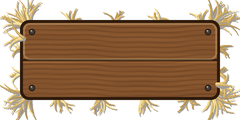
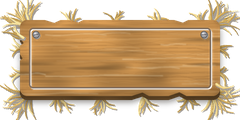
تختهی دکمهها شبیه عکس نمونه: چوب عسلی کهنه با قاب و پیچ
- رنگ چوب عسلی روشن شد، رگهها خطوط ظریف و موجدارن و رگههای
  روشنِ آفتابخورده و لکههای کشیده در امتداد رگه دارن
- لبههای تخته کمی لبپریدهست، ضخامت زیرش و سایه پیداست
- یه قاب برجسته داخل تخته و دو تا پیچ فلزی بالاش اضافه شد
- متن دکمهها قهوهای تیره شد، انگار روی چوب حک شده
- وسط تخته کشیده میشه، نه تکرار، که خط قاب تکهتکه نشه

diff --git a/tools/make_ui.py b/tools/make_ui.py
@@ -14,23 +14,63 @@ W, H = 240, 120
 INSET = 20  # straw sticks out this far past the plank
 
 
+def streaks(w, h, rows, blur_x, blur_y):
+    # noise stretched along x: long horizontal grain streaks
+    n = Image.fromarray((rng.random((rows, max(2, w // 40))) * 255).astype(np.uint8)).resize((w, h), Image.BICUBIC)
+    return np.asarray(n.filter(ImageFilter.BoxBlur(1)), np.float32) / 255
+
+
 def wood(w, h):
-    y, x = np.mgrid[0:h, 0:w].astype(np.float32)
-    warp = np.sin(x / w * 7 + rng.random() * 6) * 6 + np.sin(x / w * 23) * 2
-    grain = np.sin((y + warp) * 0.32) * 0.5 + 0.5
-    grain = grain ** 3
-    fine = rng.random((h, w)).astype(np.float32)
-    fine = np.asarray(Image.fromarray((fine * 255).astype(np.uint8)).resize((w, h)).filter(ImageFilter.GaussianBlur(1)), np.float32) / 255
-    streak = np.asarray(Image.fromarray((rng.random((h // 6 + 1, 4)) * 255).astype(np.uint8)).resize((w, h), Image.BICUBIC), np.float32) / 255
-    base = np.array([0.56, 0.36, 0.2])
-    dark = np.array([0.36, 0.21, 0.1])
-    t = (grain * 0.55 + fine * 0.2 + streak * 0.35)[..., None]
-    rgb = base * (1 - t * 0.6) + dark * t * 0.6
-    # two boards: seam across the middle
-    seam = np.abs(y - h * 0.5) < 1.2 * SS
-    rgb[seam] *= 0.45
-    rgb[(y > h * 0.5 + 1.2 * SS) & (y < h * 0.5 + 3 * SS)] *= 1.15
+    """Weathered honey-tan board: fine wavy grain lines, long sun-bleached streaks, faint grime."""
+    blot = np.asarray(Image.fromarray((rng.random((4, 8)) * 255).astype(np.uint8)).resize((w, h), Image.BICUBIC), np.float32) / 255
+    base = np.array([0.76, 0.55, 0.30])
+    rgb = base * (0.9 + 0.2 * blot[..., None])
+    # grain: many thin, slightly wavy lines running the length of the board
+    gl = Image.new("L", (w, h), 0)
+    gd = ImageDraw.Draw(gl)
+    y = -2.0 * SS
+    while y < h + 2 * SS:
+        y += rng.uniform(0.8, 2.6) * SS
+        ph, amp = rng.uniform(0, 6), rng.uniform(0.3, 2.0) * SS
+        pts = [(x, y + math.sin(x / w * rng.uniform(2, 5) + ph) * amp) for x in np.linspace(-10, w + 10, 24)]
+        gd.line(pts, fill=int(rng.uniform(25, 140)), width=max(1, int(rng.uniform(0.4, 1.1) * SS)))
+    grain = np.asarray(gl.filter(ImageFilter.GaussianBlur(0.35 * SS)), np.float32)[..., None] / 255
+    rgb = rgb * (1 - grain * 0.55) + np.array([0.42, 0.25, 0.1]) * grain * 0.55
+    # pale bleached streaks along the grain
+    sc = Image.new("L", (w, h), 0)
+    sd = ImageDraw.Draw(sc)
+    for _ in range(int(w * h / (500 * SS * SS))):
+        x0, y0 = rng.uniform(-40, w), rng.uniform(0, h)
+        ln = rng.uniform(25, 150) * SS
+        pts = [(x0 + ln * k / 8, y0 + math.sin(k * 0.8 + rng.random()) * SS * 0.8) for k in range(9)]
+        sd.line(pts, fill=int(rng.uniform(60, 210)), width=max(1, int(rng.uniform(0.4, 1.6) * SS)))
+    pale = np.asarray(sc.filter(ImageFilter.GaussianBlur(0.5 * SS)), np.float32)[..., None] / 255
+    rgb = rgb * (1 - pale * 0.75) + np.array([0.95, 0.86, 0.7]) * pale * 0.75
+    # faint dark grime patches
+    gr = np.asarray(Image.fromarray((rng.random((18, 5)) * 255).astype(np.uint8)).resize((w, h), Image.BICUBIC), np.float32) / 255
+    rgb *= (1 - np.clip(gr - 0.6, 0, 1) * 0.55)[..., None]  # stretched along x so grime follows the grain
     return np.clip(rgb, 0, 1)
+
+
+def chipped_mask(w, h, radius):
+    """Rounded board outline with a few splintered notches on the edges, like old boards."""
+    m = Image.new("L", (w, h), 0)
+    md = ImageDraw.Draw(m)
+    md.rounded_rectangle([0, 0, w - 1, h - 1], radius=radius, fill=255)
+    for _ in range(7):
+        side = rng.integers(4)
+        d = rng.uniform(2, 5) * SS
+        if side < 2:  # left/right ends get V-shaped splinters
+            x = 0 if side == 0 else w - 1
+            y = rng.uniform(0.15, 0.85) * h
+            s = 1 if side == 0 else -1
+            md.polygon([(x, y - d * 1.6), (x + s * d, y), (x, y + d * 0.8)], fill=0)
+        else:
+            y = 0 if side == 2 else h - 1
+            x = rng.uniform(0.1, 0.9) * w
+            s = 1 if side == 2 else -1
+            md.polygon([(x - d * 2.2, y), (x, y + s * d * 0.7), (x + d * 1.4, y)], fill=0)
+    return m
 
 
 def straw(d, cx, cy, ang, spread, n, length, front=False):
@@ -78,22 +118,41 @@ def button():
     for y in (h * 0.4, h * 0.6):
         straw(d, i + 4 * SS, y, 3.14, 0.6, 6, 18)
         straw(d, w - i - 4 * SS, y, 0.0, 0.6, 6, 18)
-    # plank with rounded corners, dark rim and a lit top edge
+    # weathered board: drop shadow, darker side for thickness, chipped face, raised inner frame, screws
     pw, ph = w - 2 * i, h - 2 * i
-    tex = (wood(pw, ph) * 255).astype(np.uint8)
-    plank = Image.fromarray(tex).convert("RGBA")
-    mask = Image.new("L", (pw, ph), 0)
-    ImageDraw.Draw(mask).rounded_rectangle([0, 0, pw - 1, ph - 1], radius=9 * SS, fill=255)
-    rim = Image.new("RGBA", (pw, ph), (0, 0, 0, 0))
-    rd = ImageDraw.Draw(rim)
-    rd.rounded_rectangle([0, 0, pw - 1, ph - 1], radius=9 * SS, outline=(45, 25, 10, 255), width=3 * SS)
-    rd.rounded_rectangle([3 * SS, 3 * SS, pw - 3 * SS, ph * 0.5], radius=7 * SS, outline=(255, 220, 160, 70), width=SS * 2)
-    plank = Image.alpha_composite(plank, rim)
-    pd = ImageDraw.Draw(plank)
-    for nx, ny in [(12, 12), (pw / SS - 12, 12), (12, ph / SS - 12), (pw / SS - 12, ph / SS - 12)]:  # nails
-        r = 3.2 * SS
-        pd.ellipse([nx * SS - r, ny * SS - r, nx * SS + r, ny * SS + r], fill=(70, 62, 55, 255), outline=(30, 25, 20, 255), width=SS)
-        pd.ellipse([nx * SS - r * 0.4, ny * SS - r * 0.6, nx * SS, ny * SS - r * 0.1], fill=(170, 160, 150, 255))
+    thick = 4 * SS
+    fh = ph - thick
+    mask = chipped_mask(pw, fh, 7 * SS)
+    shadow = Image.new("RGBA", (w, h), (0, 0, 0, 0))
+    shadow.paste((25, 15, 5, 120), (i, i + thick + 2 * SS), mask)
+    img.alpha_composite(shadow.filter(ImageFilter.GaussianBlur(3 * SS)))
+    side = Image.fromarray((wood(pw, fh) * 0.45 * 255).astype(np.uint8)).convert("RGBA")
+    img.paste(side, (i, i + thick), mask)
+
+    face = wood(pw, fh)
+    m = np.asarray(mask, np.float32) / 255
+    soft = np.asarray(mask.filter(ImageFilter.GaussianBlur(2.5 * SS)), np.float32) / 255
+    face *= (0.72 + 0.28 * soft)[..., None]  # edges a touch darker, worn
+    yy = np.arange(fh)[:, None] / fh
+    face *= (1.06 - 0.12 * yy)[..., None]  # light from above
+    plank = Image.fromarray((np.clip(face, 0, 1) * 255).astype(np.uint8)).convert("RGBA")
+    pd = ImageDraw.Draw(plank, "RGBA")
+    fi = 9 * SS  # inner frame inset
+    box = [fi, fi * 0.85, pw - fi, fh - fi * 0.85]
+    pd.rounded_rectangle([box[0] + SS, box[1] + SS, box[2] + SS, box[3] + SS], radius=4 * SS, outline=(255, 235, 200, 45), width=int(1.6 * SS))
+    pd.rounded_rectangle(box, radius=4 * SS, outline=(70, 40, 15, 170), width=int(1.6 * SS))
+    for sx in (box[0] + 7 * SS, box[2] - 7 * SS):  # screws at the top corners, like the reference board
+        sy = box[1] + 7 * SS
+        r = 3.4 * SS
+        pd.ellipse([sx - r + SS, sy - r + SS, sx + r + SS, sy + r + SS], fill=(30, 18, 8, 110))
+        for k in range(8):  # radial gradient: brushed steel head lit from the top-left
+            f = 1 - k / 8
+            c = int(120 + 120 * (1 - f))
+            pd.ellipse([sx - r * f - (1 - f) * SS, sy - r * f - (1 - f) * SS, sx + r * f - (1 - f) * SS, sy + r * f - (1 - f) * SS], fill=(c, c, c + 4, 255))
+        pd.ellipse([sx - r, sy - r, sx + r, sy + r], outline=(70, 70, 72, 255), width=int(0.6 * SS))
+        a = rng.uniform(0, math.pi)
+        dx, dy = math.cos(a) * r * 0.7, math.sin(a) * r * 0.7
+        pd.line([sx - dx, sy - dy, sx + dx, sy + dy], fill=(60, 60, 64, 255), width=int(0.9 * SS))
     img.paste(plank, (i, i), mask)
     # a few stalks in front so the straw wraps around the board
     for (cx, cy, ang) in [(i + 4 * SS, i + 18 * SS, -2.9), (w - i - 4 * SS, h - i - 16 * SS, 0.3)]:
